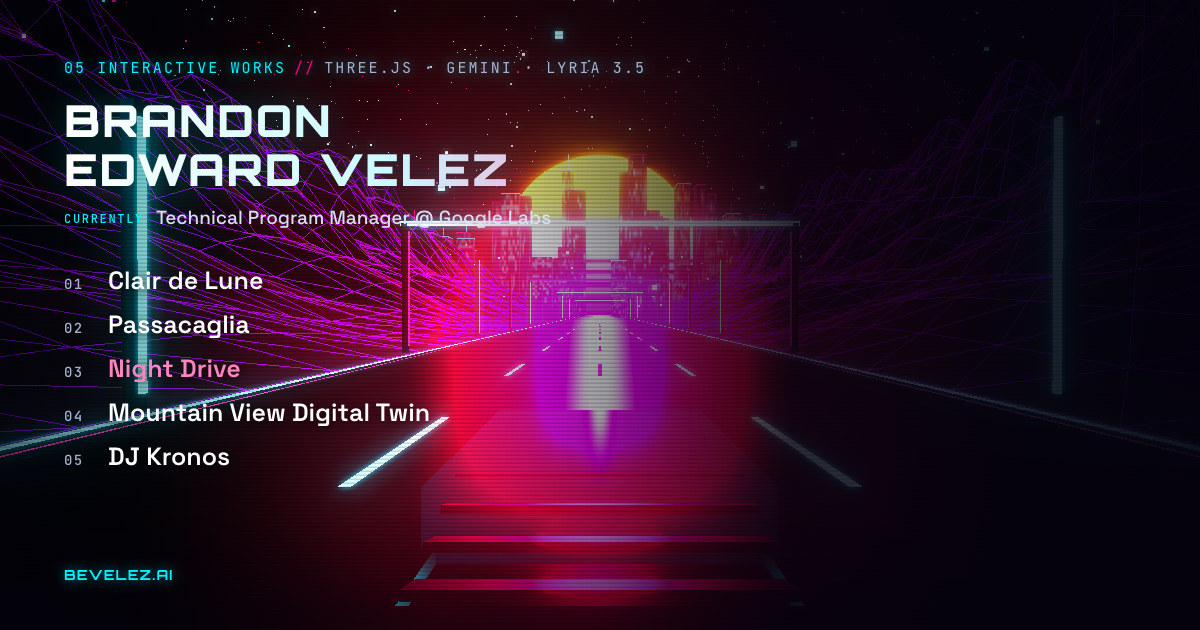
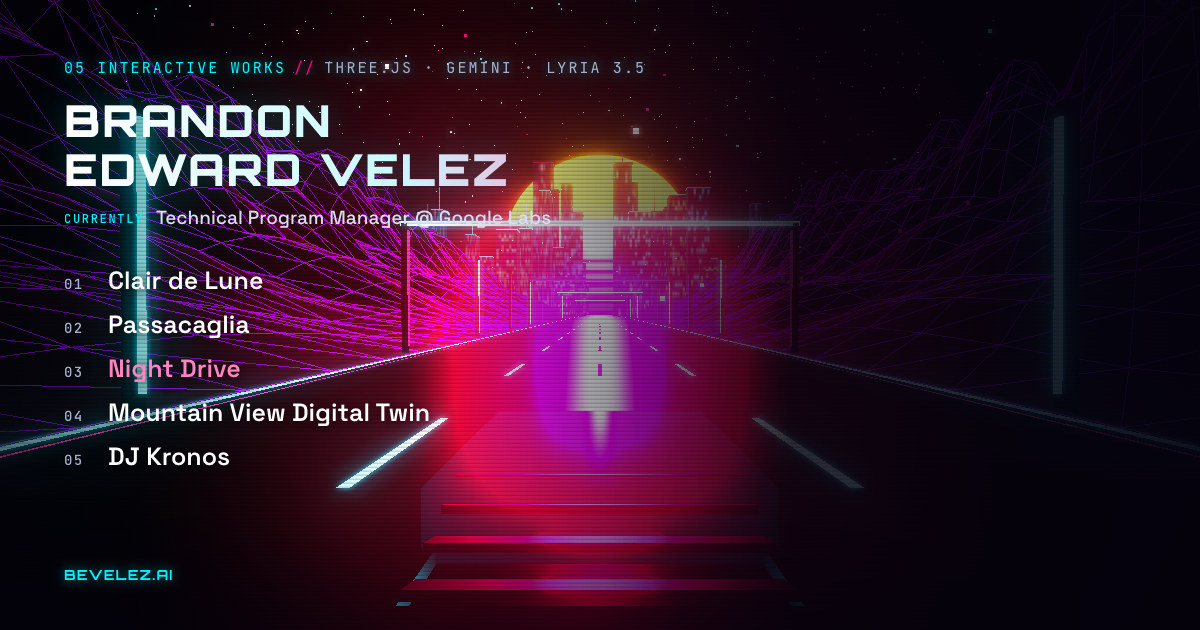
revg

diff --git a/main.js b/main.js
@@ -287,13 +287,14 @@ const highwayProps = [];
 const NUM_PYLON_PAIRS = 18;
 const PYLON_SPACING = 16;
 
-const pylonPostGeo = new THREE.BoxGeometry(0.28, 6.5, 0.28);
+// Pylons top out at 4.6 so the overhead arches pass under the HELI WIDE camera (y 6.5)
+const pylonPostGeo = new THREE.BoxGeometry(0.28, 4.6, 0.28);
 const pylonPostMat = new THREE.MeshStandardMaterial({
   color: 0x120d26,
   metalness: 0.8,
   roughness: 0.3
 });
-const neonStripGeo = new THREE.BoxGeometry(0.12, 5.8, 0.14);
+const neonStripGeo = new THREE.BoxGeometry(0.12, 4.1, 0.14);
 const neonCyanMat = new THREE.MeshBasicMaterial({ color: neonColor(0x00f3ff) });
 const neonPinkMat = new THREE.MeshBasicMaterial({ color: neonColor(0xff007f) });
 
@@ -305,21 +306,21 @@ for (let i = 0; i < NUM_PYLON_PAIRS; i++) {
   [-1, 1].forEach((side) => {
     const xBase = side * (ROAD_WIDTH / 2 + 0.8);
     const post = new THREE.Mesh(pylonPostGeo, pylonPostMat);
-    post.position.set(xBase, 3.25, 0);
+    post.position.set(xBase, 2.3, 0);
     pairGroup.add(post);
 
     const strip = new THREE.Mesh(
       neonStripGeo,
       i % 2 === 0 ? neonCyanMat : neonPinkMat
     );
-    strip.position.set(xBase - side * 0.16, 3.25, 0);
+    strip.position.set(xBase - side * 0.16, 2.3, 0);
     pairGroup.add(strip);
   });
 
   if (isArch) {
     const archBeamGeo = new THREE.BoxGeometry(ROAD_WIDTH + 2.0, 0.22, 0.22);
     const archBeam = new THREE.Mesh(archBeamGeo, i % 2 === 0 ? neonPinkMat : neonCyanMat);
-    archBeam.position.set(0, 6.5, 0);
+    archBeam.position.set(0, 4.6, 0);
     pairGroup.add(archBeam);
   }
 

diff --git a/index.html b/index.html
@@ -212,6 +212,6 @@
     </div>
   </div>
 
-  <script type="module" src="./main.js?v=21"></script>
+  <script type="module" src="./main.js?v=22"></script>
 </body>
 </html>
